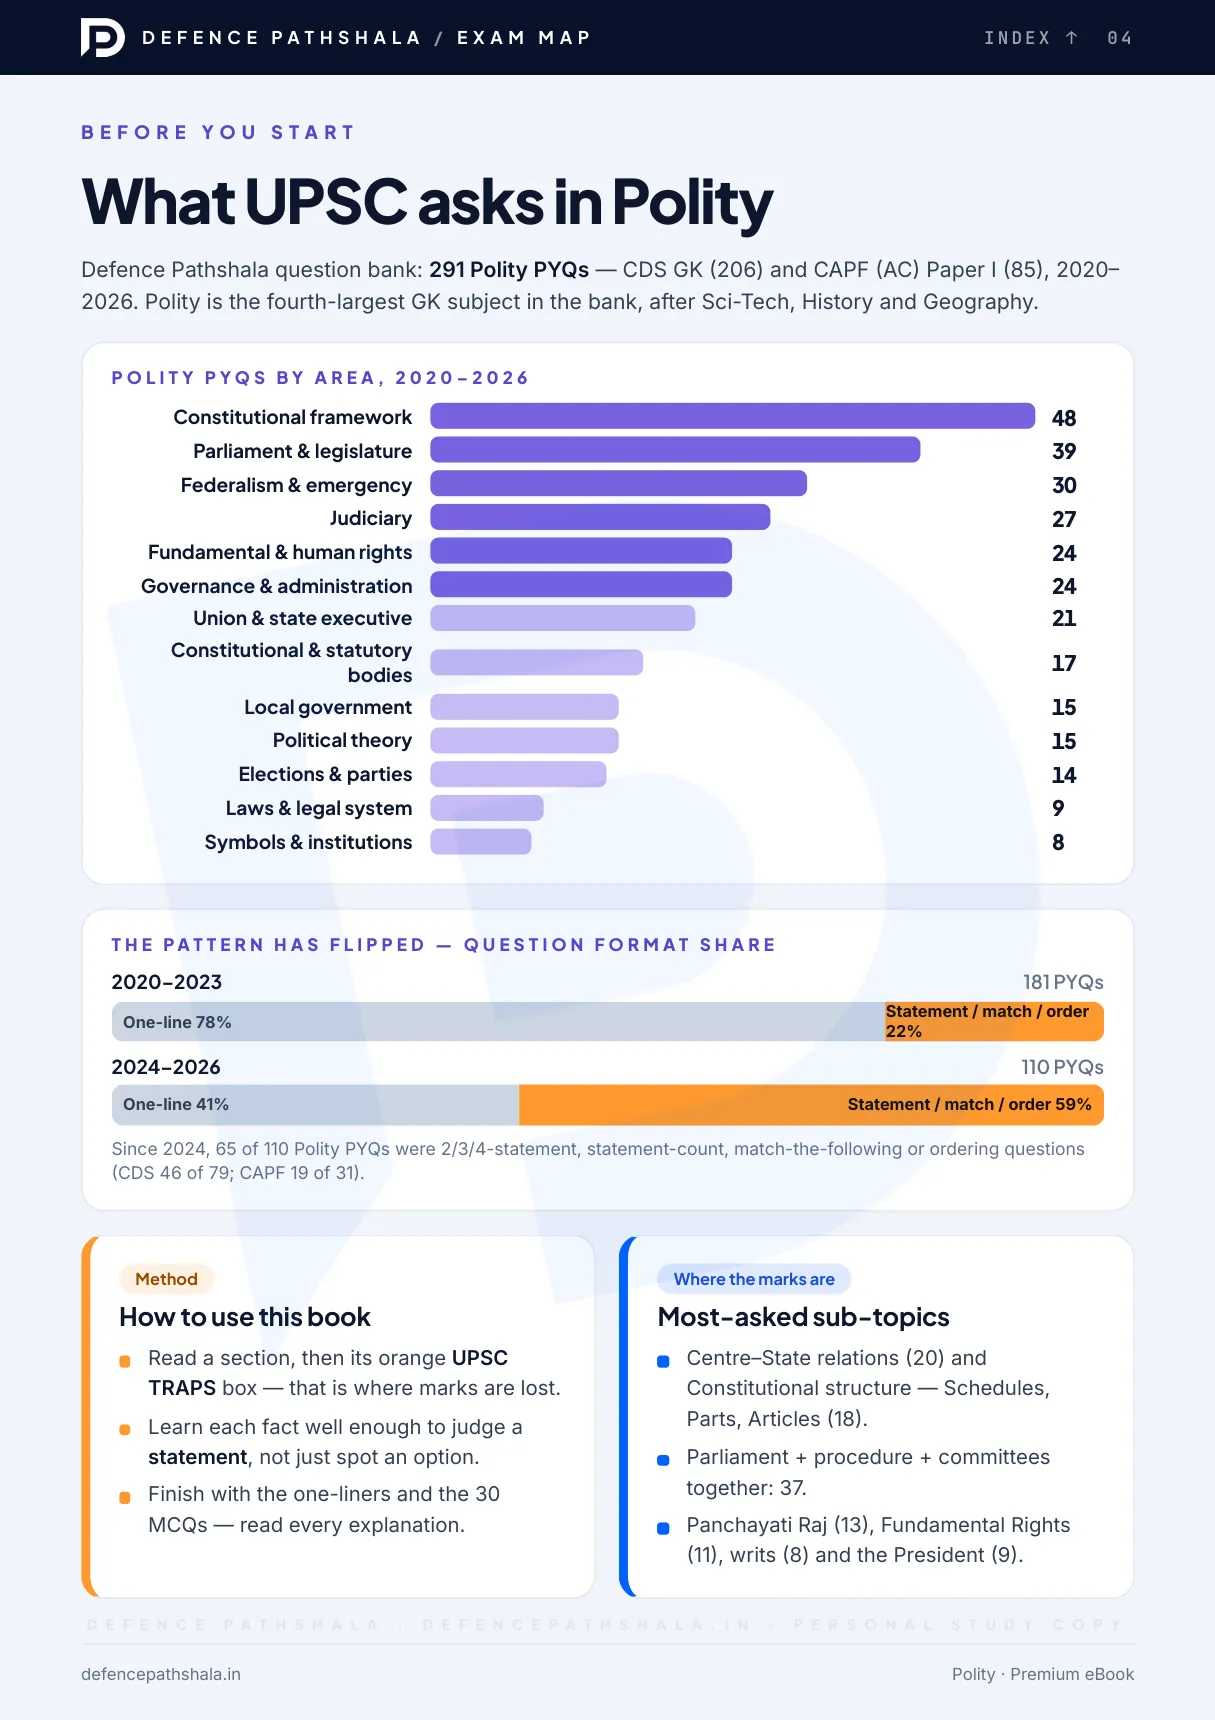
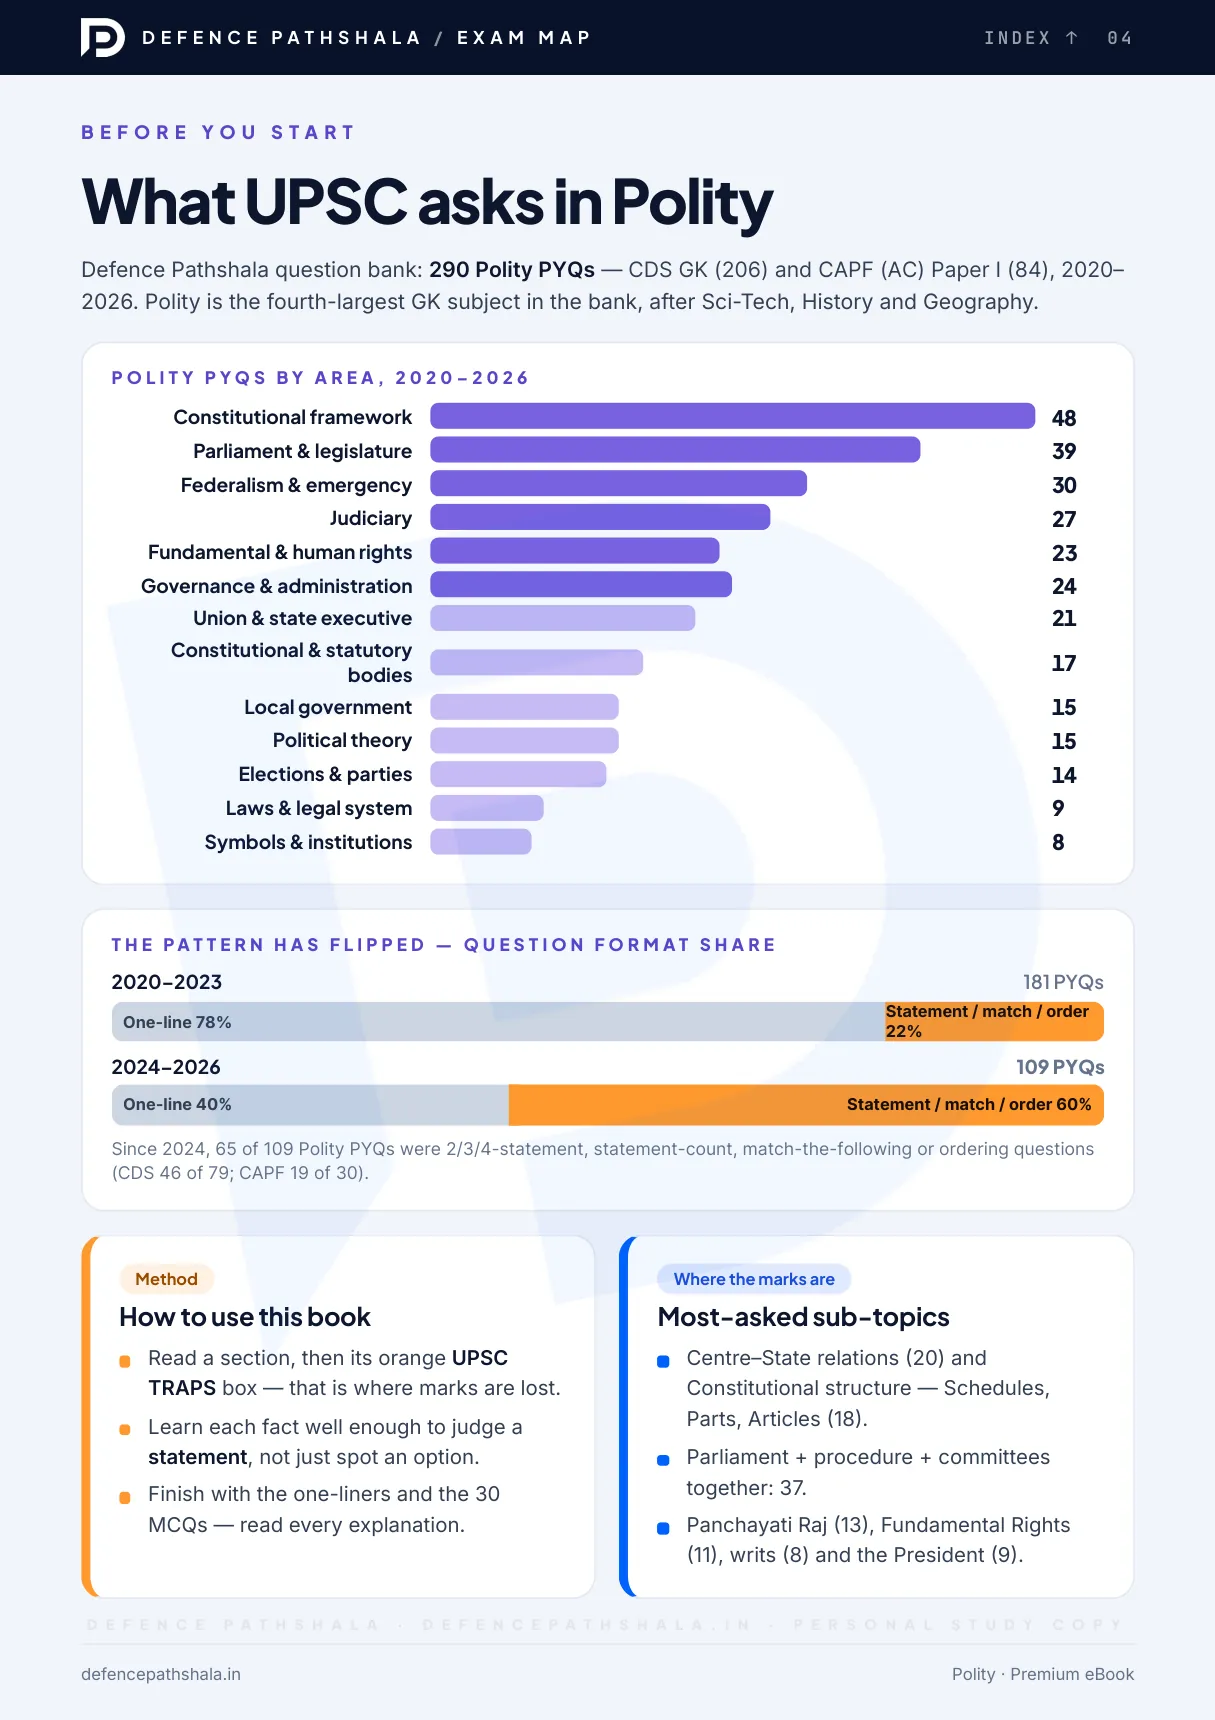
Free Library: 290 Polity PYQs, new Polity Q10, pinned reader bar
- Polity Decoded pages 1–4 and 14 re-rendered from a corrected PDF: 291 → 290 PYQs
  (CAPF 2026 Q41, a UPSC-dropped UDHR item, is withheld in the bank), CAPF 85 → 84,
  "Fundamental & human rights" 24 → 23, 2024–26 110 → 109 (40% / 60%, CAPF 19 of 30),
  Section 03 34 → 33 PYQs. Figures verified against the bank; contents links preserved.
  Correction script: scripts/library/polity_decoded_fix_pyq_count.py
- Polity Q10 (Governor pardoning a death sentence) replaced with a DP Original on the
  President's ordinance power under Article 123 (answer B); pinned key updated
- Reader contents/page bar now stays on screen while reading. position:sticky never worked
  inside the app shell (overflow-x: hidden), so the bar is pinned with position:fixed over
  the reading column instead. Also fixes the monthly capsule reader.

Claude-Session: https://claude.ai/code/session_019YAwD936e1r7YfbkZTzgjn

diff --git a/frontend/src/components/library/EbookPageReader.tsx b/frontend/src/components/library/EbookPageReader.tsx
@@ -76,6 +76,13 @@ export default function EbookPageReader({
   const last = pages[pages.length - 1] ?? 1;
   const [current, setCurrent] = useState(first);
   const [contentsOpen, setContentsOpen] = useState(false);
+  // The app shell sets overflow-x:hidden, which disables position:sticky for this bar. So once the
+  // bar would scroll off-screen it is pinned with position:fixed over the reading column instead.
+  const wrapRef = useRef<HTMLDivElement>(null);
+  const barSlotRef = useRef<HTMLDivElement>(null);
+  const barRef = useRef<HTMLDivElement>(null);
+  const [pinned, setPinned] = useState<{ left: number; width: number } | null>(null);
+  const [barHeight, setBarHeight] = useState(0);
   const pageRefs = useRef<Map<number, HTMLElement>>(new Map());
   const seen = useRef<Set<number>>(new Set());
   const milestones = useRef<Set<number>>(new Set());
@@ -163,12 +170,45 @@ export default function EbookPageReader({
     return () => window.removeEventListener("keydown", onKey);
   }, [step]);
 
+  useEffect(() => {
+    let frame = 0;
+    function update() {
+      frame = 0;
+      const slot = barSlotRef.current?.getBoundingClientRect();
+      const wrap = wrapRef.current?.getBoundingClientRect();
+      const bar = barRef.current;
+      if (!slot || !wrap || !bar) return;
+      const h = bar.offsetHeight;
+      const shouldPin = slot.top < 0 && wrap.bottom > h + 24;
+      setBarHeight(h);
+      setPinned((prev) => {
+        if (!shouldPin) return null;
+        const next = { left: Math.round(slot.left), width: Math.round(slot.width) };
+        return prev && prev.left === next.left && prev.width === next.width ? prev : next;
+      });
+    }
+    const schedule = () => { if (!frame) frame = window.requestAnimationFrame(update); };
+    update();
+    window.addEventListener("scroll", schedule, { passive: true });
+    window.addEventListener("resize", schedule);
+    return () => {
+      window.removeEventListener("scroll", schedule);
+      window.removeEventListener("resize", schedule);
+      if (frame) window.cancelAnimationFrame(frame);
+    };
+  }, []);
+
   const section = sectionAt(sections, current);
   const discourageSave = (e: React.SyntheticEvent) => e.preventDefault();
 
   return (
-    <div className="relative">
-      <div className="sticky top-0 z-20 -mx-4 border-b border-slate-200 bg-white/95 px-4 py-3 backdrop-blur-nav sm:mx-0 sm:rounded-2xl sm:border">
+    <div ref={wrapRef} className="relative">
+      <div ref={barSlotRef} className="-mx-4 sm:mx-0" style={pinned ? { height: barHeight } : undefined}>
+      <div
+        ref={barRef}
+        className={`z-40 border-b border-slate-200 bg-white/95 px-4 py-3 backdrop-blur-nav sm:rounded-2xl sm:border ${pinned ? "fixed top-0 shadow-md sm:top-2" : "relative"}`}
+        style={pinned ? { left: pinned.left, width: pinned.width } : undefined}
+      >
         <div className="flex items-center gap-2">
           <button
             type="button"
@@ -212,6 +252,8 @@ export default function EbookPageReader({
         )}
       </div>
 
+      </div>
+
       <div className="mx-auto mt-4 flex max-w-3xl flex-col gap-4 select-none" onContextMenu={discourageSave}>
         {pages.map((page) => {
           const pageSection = sectionAt(sections, page);
@@ -222,7 +264,7 @@ export default function EbookPageReader({
               data-page={page}
               ref={(el) => { if (el) pageRefs.current.set(page, el); else pageRefs.current.delete(page); }}
               aria-label={`Page ${page} of ${last}`}
-              className={`relative ${pageAnchors ? "scroll-mt-36 lg:scroll-mt-24" : "scroll-mt-24"} overflow-hidden rounded-xl bg-slate-900 shadow-sm ring-1 ring-slate-200`}
+              className={`relative scroll-mt-24 overflow-hidden rounded-xl bg-slate-900 shadow-sm ring-1 ring-slate-200`}
               style={{ aspectRatio: `${pageWidth} / ${pageHeight}` }}
             >
               {/* eslint-disable-next-line @next/next/no-img-element -- static pre-rendered page; next/image would expose an optimiser URL per size */}

diff --git a/frontend/src/lib/library/quiz-polity-decoded.ts b/frontend/src/lib/library/quiz-polity-decoded.ts
@@ -181,19 +181,21 @@ export const POLITY_DECODED_QUIZ: LibraryQuiz = {
       page: 22,
     },
     {
+      // Replaces the eBook's original Q10 (Governor's pardon of a death sentence), withdrawn by the
+      // founder on 12 Nov 2026 because of the 2021 State of Haryana v. Raj Kumar reporting.
       n: 10,
       source: { kind: "original" },
       format: "2-STATEMENT",
-      stem: "Consider the following statements about the Governor's pardoning power under Article 161:",
+      stem: "Consider the following statements about the President's ordinance-making power under Article 123:",
       statements: [
-        "The Governor can pardon a death sentence.",
-        "The Governor can grant pardon to a person sentenced by a court-martial.",
+        "The President can promulgate an ordinance only when both Houses of Parliament are not in session.",
+        "An ordinance must be laid before both Houses of Parliament and ceases to operate six weeks after Parliament reassembles.",
       ],
       prompt: "Which of the statements given above is/are correct?",
       options: { ...STATEMENT_OPTIONS },
-      answer: "D",
-      explanation: "Both wrong. A Governor can suspend, remit or commute a death sentence but cannot pardon it, and has no power over court-martial sentences.",
-      trap: "Article 161 covers only offences against state laws.",
+      answer: "B",
+      explanation: "Article 123 allows an ordinance whenever either House is not in session — both need not be in recess. It must be laid before both Houses and lapses six weeks after Parliament reassembles (earlier if both Houses disapprove it).",
+      trap: "“Both Houses not in session” sounds stricter and safer — but one House in recess is enough.",
       keySource: "dp-original",
       topic: "executive",
       page: 21,

diff --git a/frontend/src/lib/library/hotspots.ts b/frontend/src/lib/library/hotspots.ts
@@ -56,7 +56,6 @@ export const LIBRARY_HOTSPOTS: Record<string, LibraryHotspot[]> = {
     { page: 38, target: 3, left: 76.0, top: 0.3, width: 21.0, height: 3.6 },
   ],
   "polity-decoded": [
-    { page: 3, target: 4, left: 6.68, top: 18.08, width: 86.73, height: 4.1 },
     { page: 3, target: 5, left: 6.68, top: 22.63, width: 86.73, height: 4.1 },
     { page: 3, target: 6, left: 6.68, top: 27.17, width: 86.73, height: 4.01 },
     { page: 3, target: 11, left: 6.68, top: 31.62, width: 86.73, height: 4.1 },
@@ -73,6 +72,7 @@ export const LIBRARY_HOTSPOTS: Record<string, LibraryHotspot[]> = {
     { page: 3, target: 50, left: 6.68, top: 81.33, width: 86.73, height: 4.1 },
     { page: 3, target: 0, left: 6.68, top: 85.88, width: 86.73, height: 4.1 },
     { page: 3, target: 0, left: 6.68, top: 90.42, width: 86.73, height: 4.1 },
+    { page: 3, target: 4, left: 6.68, top: 18.08, width: 86.73, height: 4.1 },
     { page: 4, target: 3, left: 76.0, top: 0.3, width: 21.0, height: 3.6 },
     { page: 5, target: 3, left: 76.0, top: 0.3, width: 21.0, height: 3.6 },
     { page: 6, target: 3, left: 76.0, top: 0.3, width: 21.0, height: 3.6 },

diff --git a/frontend/src/components/library/LibraryQuiz.tsx b/frontend/src/components/library/LibraryQuiz.tsx
@@ -139,8 +139,8 @@ export default function LibraryQuiz({ quiz, bookTitle, pyqCount, practice, ancho
   }
 
   return (
-    <section id={anchorId} aria-labelledby={`${anchorId}-title`} className="mx-auto mt-10 max-w-3xl scroll-mt-20 lg:scroll-mt-6">
-      <div ref={topRef} className="scroll-mt-20 lg:scroll-mt-6" />
+    <section id={anchorId} aria-labelledby={`${anchorId}-title`} className="mx-auto mt-10 max-w-3xl scroll-mt-4">
+      <div ref={topRef} className="scroll-mt-4" />
 
       {/* ── Intro ─────────────────────────────────────────────────────── */}
       {!inProgress && !result && (

diff --git a/frontend/scripts/library/polity_decoded_fix_pyq_count.py b/frontend/scripts/library/polity_decoded_fix_pyq_count.py
@@ -1,0 +1,149 @@
+"""One-off correction for Polity Decoded, Edition 1 (12 Nov 2026).
+
+The book counted 291 Polity PYQs. One of them, CAPF (AC) 2026 Paper I Q41 (UDHR, a UPSC-dropped
+item), is withheld from learners in the DP bank, so the live count is 290 (CDS 206 + CAPF 84).
+This script edits the PDF in place of a re-render, changing every figure that included it:
+  p1 cover 291→290 · p2 291→290, CAPF 85→84 · p3 contents 291→290 · p14 Section 03 34→33 PYQs
+  p4 291→290, (85)→(84), "Fundamental & human rights" 24→23 (bar shortened), 2024–26 110→109,
+     one-line 41%→40%, statement 59%→60% (bar split moved), "65 of 110"→"65 of 109", "CAPF 19 of 31"→"19 of 30".
+Figures verified against v_dp_question_intelligence_v2 (content_eligible) on 12 Nov 2026.
+
+Usage: python3 polity_decoded_fix_pyq_count.py <in.pdf> <out.pdf> <ttf-dir>
+<ttf-dir> holds the Fontsource Inter / Plus Jakarta Sans latin TTFs (the eBook's own fonts;
+the PDF's embedded subsets lack some digits).
+"""
+import sys
+import pymupdf
+
+src, out, ttf = sys.argv[1:4]
+FONTS = {
+    "Inter-Regular": "inter-latin-400-normal.ttf",
+    "Inter-SemiBold": "inter-latin-600-normal.ttf",
+    "Inter-Bold": "inter-latin-700-normal.ttf",
+    "PlusJakartaSans-SemiBold": "plus-jakarta-sans-latin-600-normal.ttf",
+    "PlusJakartaSans-Bold": "plus-jakarta-sans-latin-700-normal.ttf",
+    "PlusJakartaSans-ExtraBol": "plus-jakarta-sans-latin-800-normal.ttf",
+}
+doc = pymupdf.open(src)
+
+
+def spans(page):
+    for b in page.get_text("dict")["blocks"]:
+        for l in b.get("lines", []):
+            for s in l["spans"]:
+                yield s
+
+
+def find(page, text, near_y=None):
+    hits = [s for s in spans(page) if s["text"] == text and (near_y is None or abs(s["bbox"][1] - near_y) < 2)]
+    assert len(hits) == 1, f"p{page.number + 1}: expected one span {text!r}, got {len(hits)}"
+    return hits[0]
+
+
+def redact(page, **kw):
+    """apply_redactions also deletes link annotations that overlap; put them back."""
+    before = page.get_links()
+    page.apply_redactions(**kw)
+    keep = {(round(l["from"].x0, 1), round(l["from"].y0, 1)) for l in page.get_links()}
+    for l in before:
+        if (round(l["from"].x0, 1), round(l["from"].y0, 1)) not in keep:
+            page.insert_link({k: v for k, v in l.items() if k not in ("xref", "id")})
+
+
+def rgb(c):
+    return ((c >> 16) & 255) / 255, ((c >> 8) & 255) / 255, (c & 255) / 255
+
+
+def replace_runs(page, runs, align="left"):
+    """runs: list of (span, new_text). Rewrites consecutive spans of one line from the first span's origin."""
+    for s, _ in runs:
+        x0, y0, x1, y1 = s["bbox"]
+        page.add_redact_annot(pymupdf.Rect(x0 + 0.3, y0 + 2, x1 - 0.3, y1 - 2))
+    redact(page, images=pymupdf.PDF_REDACT_IMAGE_NONE, graphics=pymupdf.PDF_REDACT_LINE_ART_NONE)
+    first = runs[0][0]
+    total = sum(pymupdf.Font(fontfile=f"{ttf}/{FONTS[s['font']]}").text_length(t, s["size"]) for s, t in runs)
+    x = first["origin"][0] if align == "left" else runs[-1][0]["bbox"][2] - total
+    y = first["origin"][1]
+    for s, t in runs:
+        name = "f" + FONTS[s["font"]].replace("-", "")[:20]
+        page.insert_font(fontname=name, fontfile=f"{ttf}/{FONTS[s['font']]}")
+        page.insert_text((x, y), t, fontname=name, fontsize=s["size"], color=rgb(s["color"]))
+        x += pymupdf.Font(fontfile=f"{ttf}/{FONTS[s['font']]}").text_length(t, s["size"])
+
+
+# p1 cover stat
+p = doc[0]
+replace_runs(p, [(find(p, "291"), "290")])
+
+# p2 "How this book is built"
+p = doc[1]
+s = find(p, "All 291 Polity previous-year questions in the Defence Pathshala bank (CDS GK 206, CAPF (AC)")
+replace_runs(p, [(s, s["text"].replace("291", "290"))])
+s = find(p, "Paper I 85, 2020–2026) were mapped topic by topic; this book follows that weightage.")
+replace_runs(p, [(s, s["text"].replace("Paper I 85,", "Paper I 84,"))])
+
+# p3 contents
+p = doc[2]
+s = find(p, "291 PYQs mapped · the shift to statement questions")
+replace_runs(p, [(s, s["text"].replace("291", "290"))])
+
+# p4 exam map
+p = doc[3]
+a = find(p, "291 Polity PYQs")
+b = find(p, " — CDS GK (206) and CAPF (AC) Paper I (85), 2020–")
+replace_runs(p, [(a, "290 Polity PYQs"), (b, b["text"].replace("(85)", "(84)"))])
+replace_runs(p, [(find(p, "24", near_y=263.6), "23")])
+replace_runs(p, [(find(p, "110 PYQs"), "109 PYQs")], align="right")
+replace_runs(p, [(find(p, "One-line 41%"), "One-line 40%")])
+replace_runs(p, [(find(p, "Statement / match / order 59%"), "Statement / match / order 60%")], align="right")
+s = find(p, "Since 2024, 65 of 110 Polity PYQs were 2/3/4-statement, statement-count, match-the-following or ordering questions")
+replace_runs(p, [(s, s["text"].replace("65 of 110", "65 of 109"))])
+s = find(p, "(CDS 46 of 79; CAPF 19 of 31).")
+replace_runs(p, [(s, "(CDS 46 of 79; CAPF 19 of 30).")])
+
+# p4 bars. "Fundamental & human rights" bar: 24 → 23 units (scale from the 24-unit bar width).
+bar = [d for d in p.get_drawings() if d["type"] == "f" and abs(d["rect"].y0 - 263.2) < 0.5 and abs(d["rect"].x0 - 210.8) < 0.5]
+assert len(bar) == 1, len(bar)
+bar = bar[0]
+r = bar["rect"]
+shift = -(r.width / 24)
+p.add_redact_annot(pymupdf.Rect(r.x0 - 0.3, r.y0 - 0.3, r.x1 + 0.3, r.y1 + 0.3))
+redact(p, images=pymupdf.PDF_REDACT_IMAGE_NONE, graphics=pymupdf.PDF_REDACT_LINE_ART_REMOVE_IF_COVERED, text=pymupdf.PDF_REDACT_TEXT_NONE)
+mid = (r.x0 + r.x1) / 2
+mv = lambda pt: pymupdf.Point(pt.x + shift, pt.y) if pt.x > mid else pt
+sh = p.new_shape()
+for it in bar["items"]:
+    if it[0] == "l":
+        sh.draw_line(mv(it[1]), mv(it[2]))
+    elif it[0] == "c":
+        sh.draw_bezier(mv(it[1]), mv(it[2]), mv(it[3]), mv(it[4]))
+    elif it[0] == "re":
+        rr = it[1]; sh.draw_rect(pymupdf.Rect(rr.x0, rr.y0, rr.x1 + shift, rr.y1))
+    else:
+        raise SystemExit(f"unexpected path item {it[0]}")
+sh.finish(fill=bar["fill"], color=None, closePath=True, fill_opacity=bar.get("fill_opacity") or 1, even_odd=bar.get("even_odd", False))
+sh.commit(overlay=True)
+
+# Format-share bar: move the one-line/statement split from 41% to 40% by extending the orange segment left.
+orange = [d for d in p.get_drawings() if d["type"] == "f" and abs(d["rect"].y0 - 531.0) < 0.5 and abs(d["rect"].x0 - 254.2) < 0.5]
+grey = [d for d in p.get_drawings() if d["type"] == "f" and abs(d["rect"].y0 - 531.0) < 0.5 and abs(d["rect"].x0 - 54.8) < 0.5]
+assert len(orange) == 1 and len(grey) == 1
+o, g = orange[0]["rect"], grey[0]["rect"]
+split = g.x0 + (o.x1 - g.x0) * 0.40
+sh = p.new_shape()
+sh.draw_rect(pymupdf.Rect(split, o.y0, o.x0 + 0.2, o.y1))
+sh.finish(fill=orange[0]["fill"], color=None)
+sh.commit(overlay=True)  # labels are clear of this strip
+
+# p14 Section 03 header "S E C T I O N 0 3 · 3 4 P Y Q S": swap the letter-spaced "4" for "3".
+p = doc[13]
+s = find(p, "4 P")
+x0, y0 = s["bbox"][0], s["bbox"][1]
+glyph_w = pymupdf.Font(fontfile=f"{ttf}/{FONTS[s['font']]}").text_length("4", s["size"])
+p.add_redact_annot(pymupdf.Rect(x0 + 0.2, y0 + 2, x0 + glyph_w - 0.2, s["bbox"][3] - 2))
+redact(p, images=pymupdf.PDF_REDACT_IMAGE_NONE, graphics=pymupdf.PDF_REDACT_LINE_ART_NONE)
+p.insert_font(fontname="fJakarta800", fontfile=f"{ttf}/{FONTS[s['font']]}")
+p.insert_text(s["origin"], "3", fontname="fJakarta800", fontsize=s["size"], color=rgb(s["color"]))
+
+doc.save(out, garbage=3, deflate=True)
+print("saved", out)
